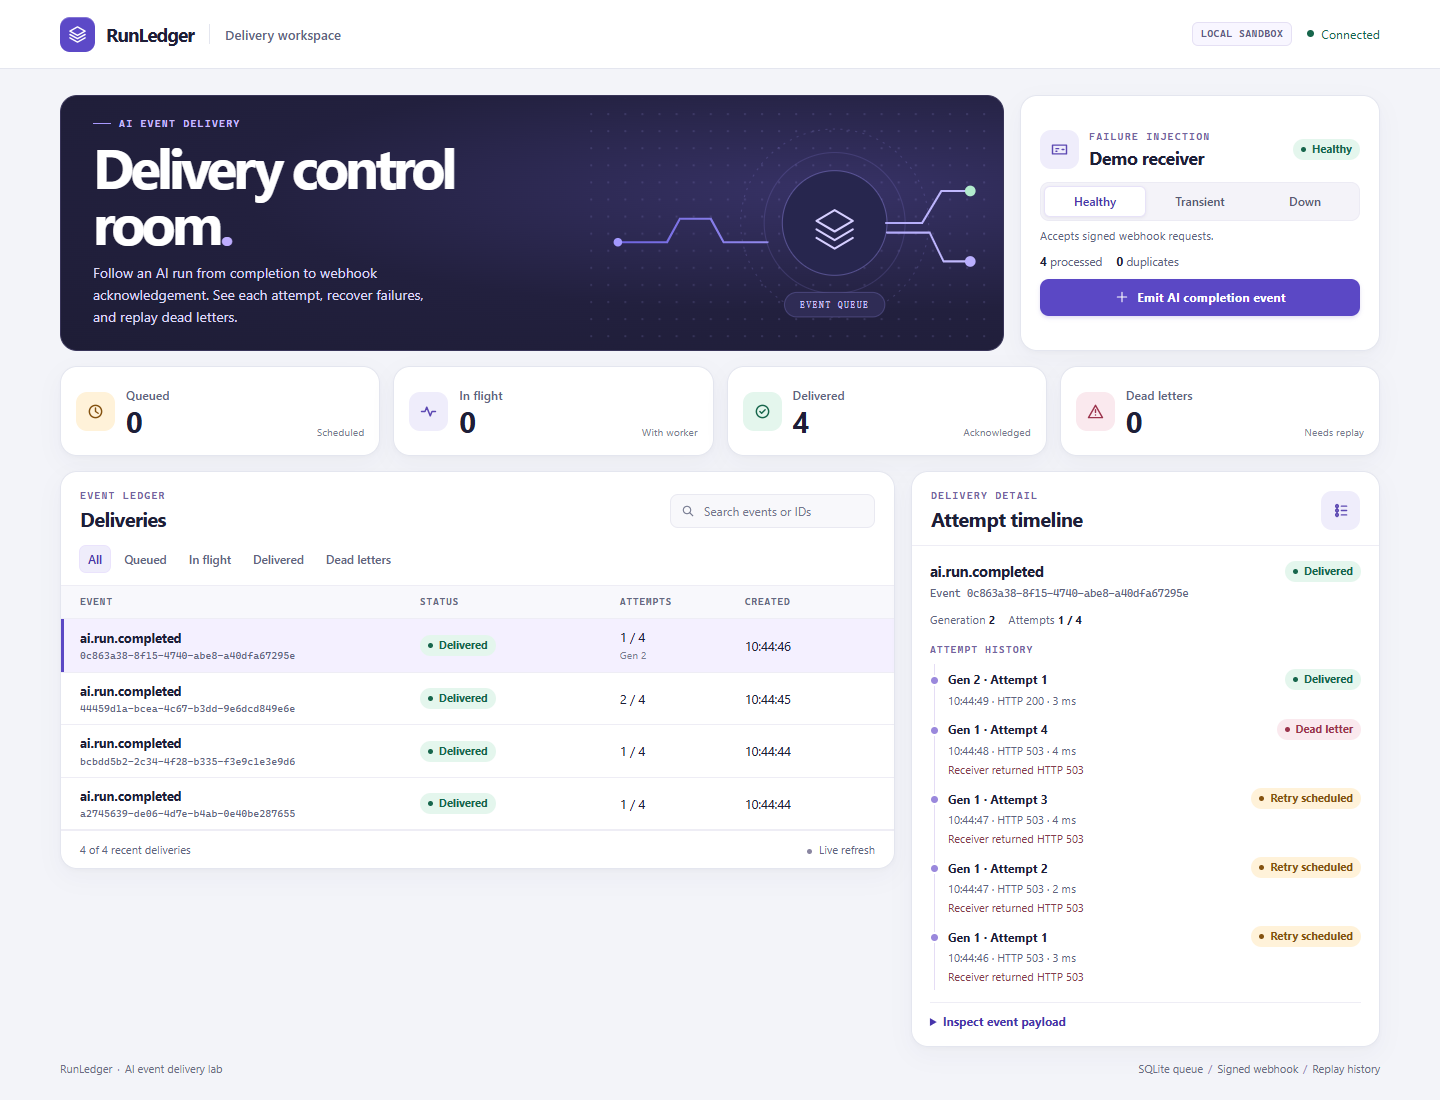
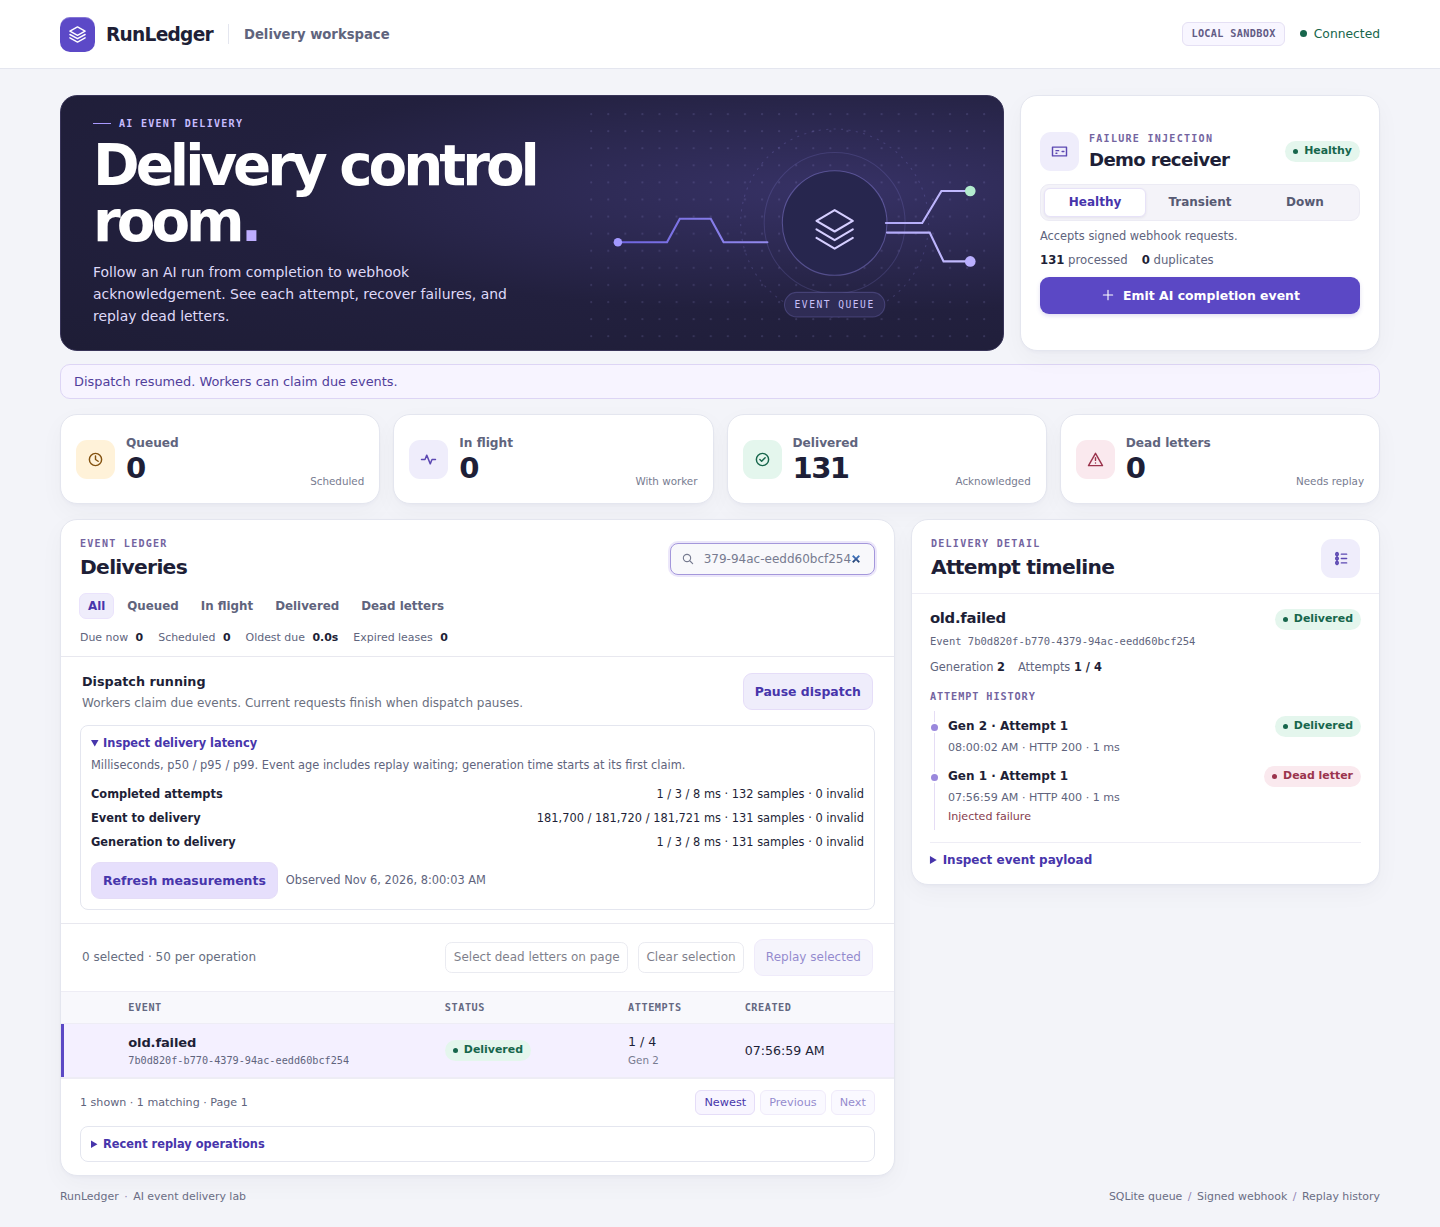
docs: publish reviewed desktop and mobile recovery captures with final engineering handoff [skip ci]

diff --git a/docs/ENGINEERING_BACKLOG.md b/docs/ENGINEERING_BACKLOG.md
@@ -126,3 +126,13 @@ Current continuation priorities: add export backlog age/health reporting, design
 [PriceWatch workload 9c8336b](https://github.com/zhuyy86/pricewatch/commit/9c8336b4f8ed752260b4df724e1677cedf0cd916) adds a reproducible 500-snapshot / 20-product local exercise: 1,500 export intents, 10,000 CSV rows, zero duplicate contributions after an interrupted publication receipt, and 868,216 bytes for both the final CSV and its stored incremental payloads. Two bounded recovery passes drain the backlog. The timestamped report is in `pricewatch/docs/recovery-workload.json`; CI runs a 20-snapshot variant. Windows completed all functional assertions but exposed a verification connection still holding the temporary database at cleanup. [Explicit-close fix c0e0d39](https://github.com/zhuyy86/pricewatch/commit/c0e0d39b9bfef0385f2633a20f2051eaa6912d7e) addresses that resource lifetime; inspect its final CI.
 
 Add pinned screenshot artifact capture for desktop, mobile and recovered batch-audit views to the existing browser CI. Profile and bilingual exports are synchronized; visual and hyperlink checks are complete for both one-page PDFs. Confirm the new CI and inspect the captured console views before recording the final handoff.
+
+
+## Final verified delivery checkpoint 2026-11-06
+
+- [Latest console fix 50e9b3e](https://github.com/zhuyy86/leadreview/commit/50e9b3e608bde3f081f66e2a91a2ebcf297be61e) passed [Linux, Windows and both browser scenarios](https://github.com/zhuyy86/leadreview/actions/runs/42184539166). The selected-column heading now uses its accessible label at mobile width. Captures focus on the recovered event, its two generations, dispatch control and the saved batch audit. Desktop and two mobile PNGs were downloaded from that run, checksum-verified and visually reviewed; the published dashboard images use these captures.
+- [Verified final resumes afefc57](https://github.com/zhuyy86/leadreview/commit/afefc57730534347243602d9fb38a021bbf94d80) synchronize English/Chinese Markdown, Word and PDF with the new operator and export recovery paths. Each language was rendered and checked at one page with six matching links.
+- [PriceWatch resource-lifetime fix c0e0d39](https://github.com/zhuyy86/pricewatch/commit/c0e0d39b9bfef0385f2633a20f2051eaa6912d7e) passed [72 tests plus the recovery workload on Linux and Windows](https://github.com/zhuyy86/pricewatch/actions/runs/42182909296). The local 500-run record remains the larger correctness/storage exercise; cloud CI uses 20 runs.
+- [Runner-browser selection b71ab90](https://github.com/zhuyy86/leadreview/commit/b71ab90e535f7388c6440d019fb848f664c8cc81) uses installed Chrome when available, retaining Chromium installation as fallback. This followed a dependency-install stall in the initial capture job. Browser availability is checked at runtime; the [official runner manifest](https://github.com/actions/runner-images/blob/main/images/ubuntu/Ubuntu2404-Readme.md) documents the image software.
+
+This delivery adds 17 RunLedger scenarios and 19 PriceWatch cases, plus a second browser recovery scenario and a bounded recovery workload in CI. Current verified totals: RunLedger 57, PriceWatch 72; OrderCheck remains at its earlier 78-test checkpoint. Published work spans transactional export recovery, persistent dispatch, atomic audited batch replay, visual QA and bilingual artifacts. Next priorities are export backlog age/health, preserved-history archival semantics and bounded-memory recovery at larger retained-history sizes. Scope remains local SQLite and cooperating exporters; multi-file progress is represented by durable per-file receipts.

diff --git a/runledger/README.md b/runledger/README.md
@@ -4,6 +4,8 @@ An AI pipeline has finished. Its callback endpoint is returning 503. RunLedger s
 
 ![RunLedger console showing the recovered delivery and its failed first generation](docs/dashboard.png)
 
+[Mobile delivery view](docs/dashboard-mobile.png) · [Mobile batch-replay audit](docs/dashboard-replay-mobile.png)
+
 ## Run the failure demo
 
 From this directory, with Node.js 24 installed:
